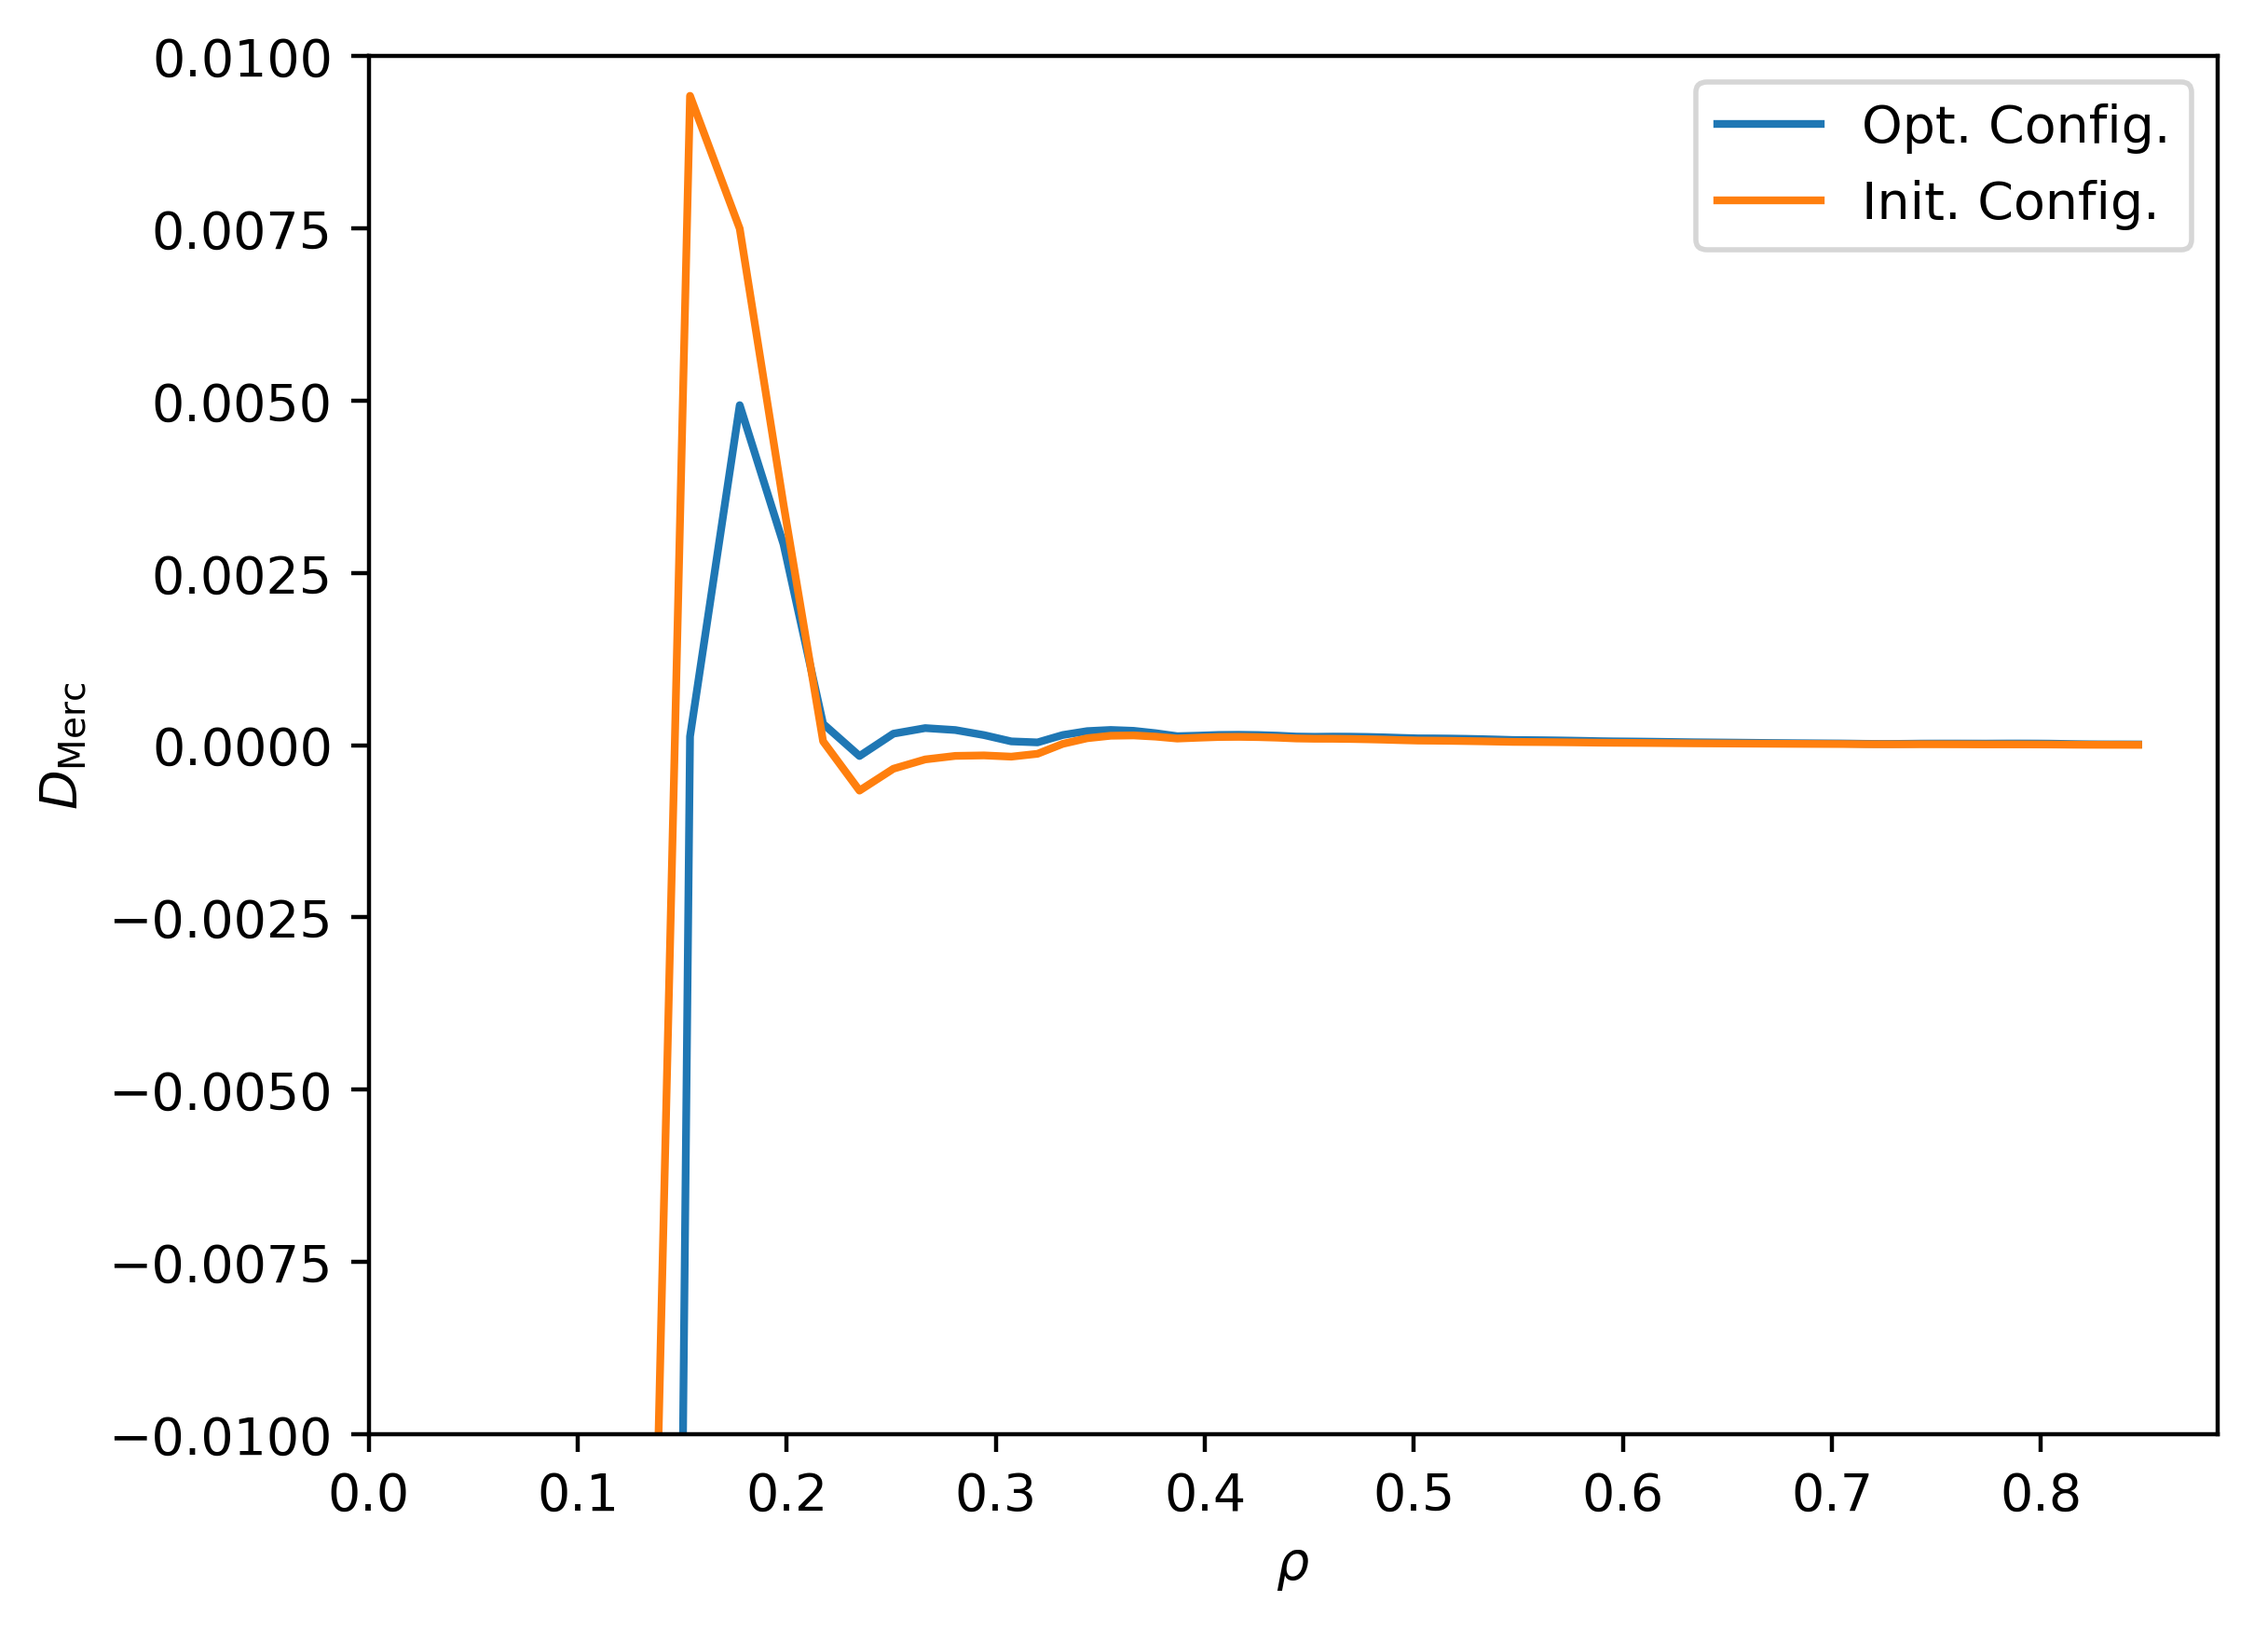
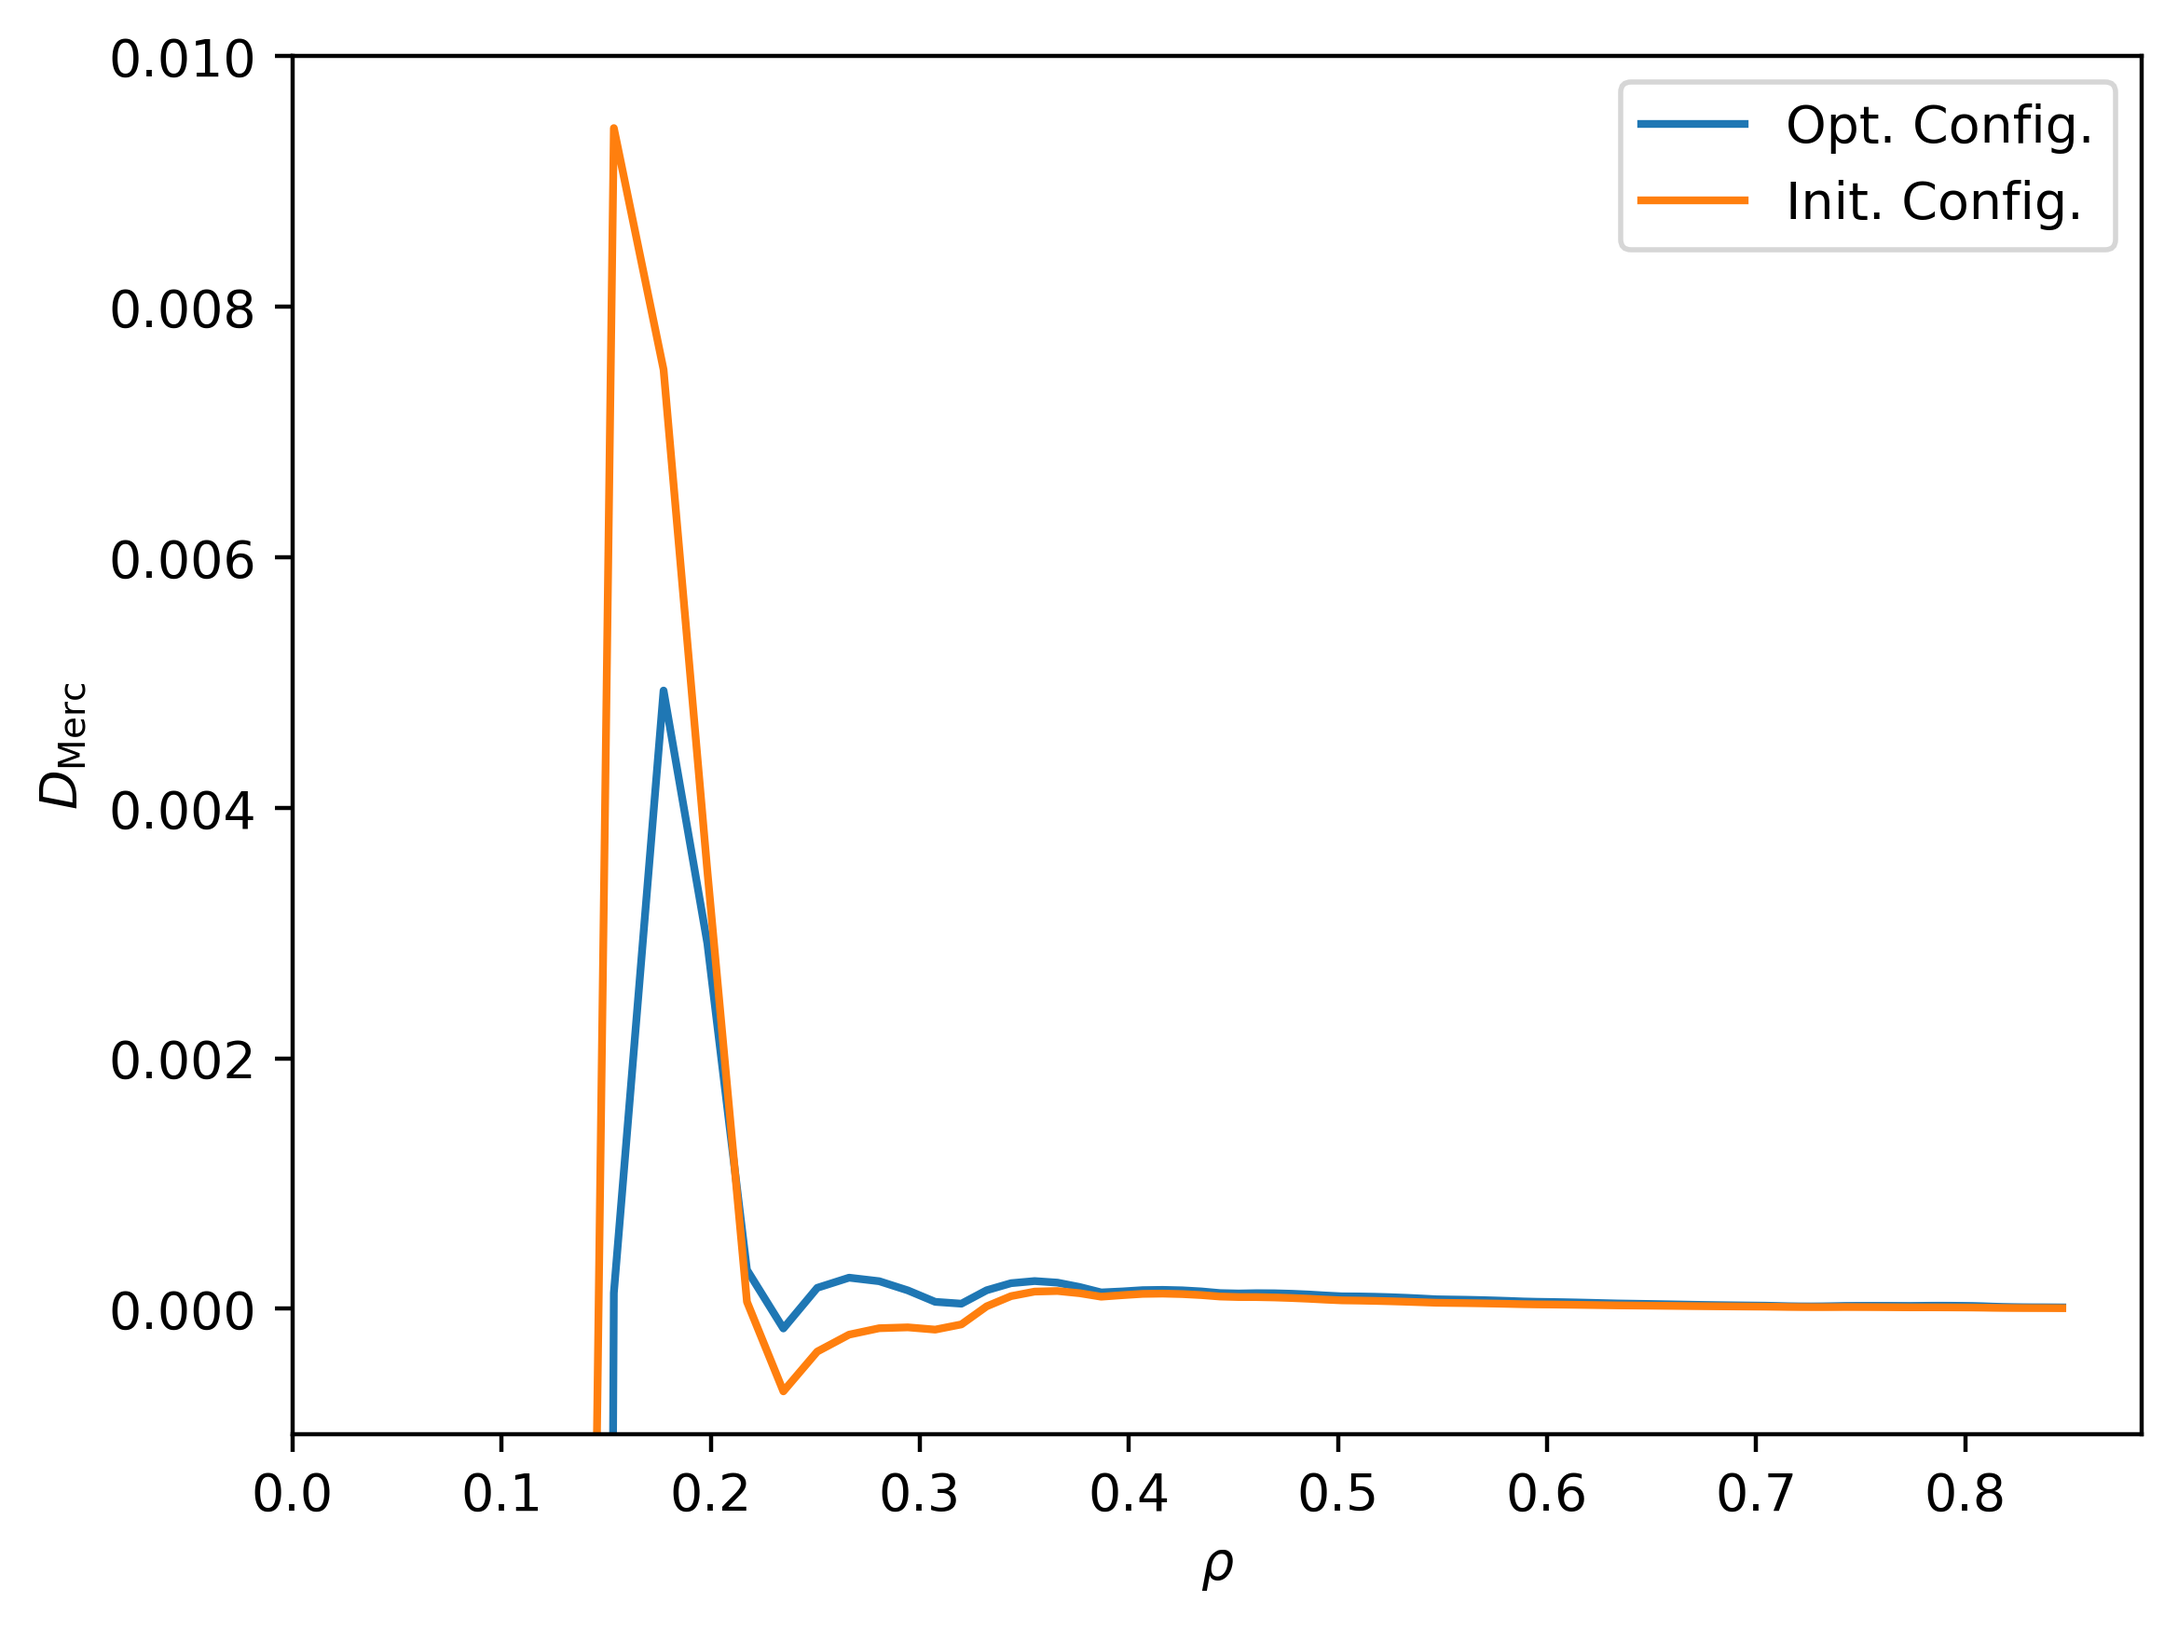
More tweaks

diff --git a/eRootProject/NTSSstuff/plotProfs.py b/eRootProject/NTSSstuff/plotProfs.py
@@ -1,4 +1,3 @@
-# FIXME probably get the volume of your run spot on 1900 m3 and remake these plots... if that configuration isn't totally broken
 # Settings
 profsFilePath = 'profs_1b'
 rhoMin = 0

diff --git a/eRootProject/NTSSstuff/plotOthers.py b/eRootProject/NTSSstuff/plotOthers.py
@@ -3,7 +3,7 @@
 #Inputs
 rhoMin = 0
 rhoMax = 0.85
-DMercYMin = -0.01
+DMercYMin = -0.001
 DMercYMax = 0.01
 fileExt = 'png'
 
